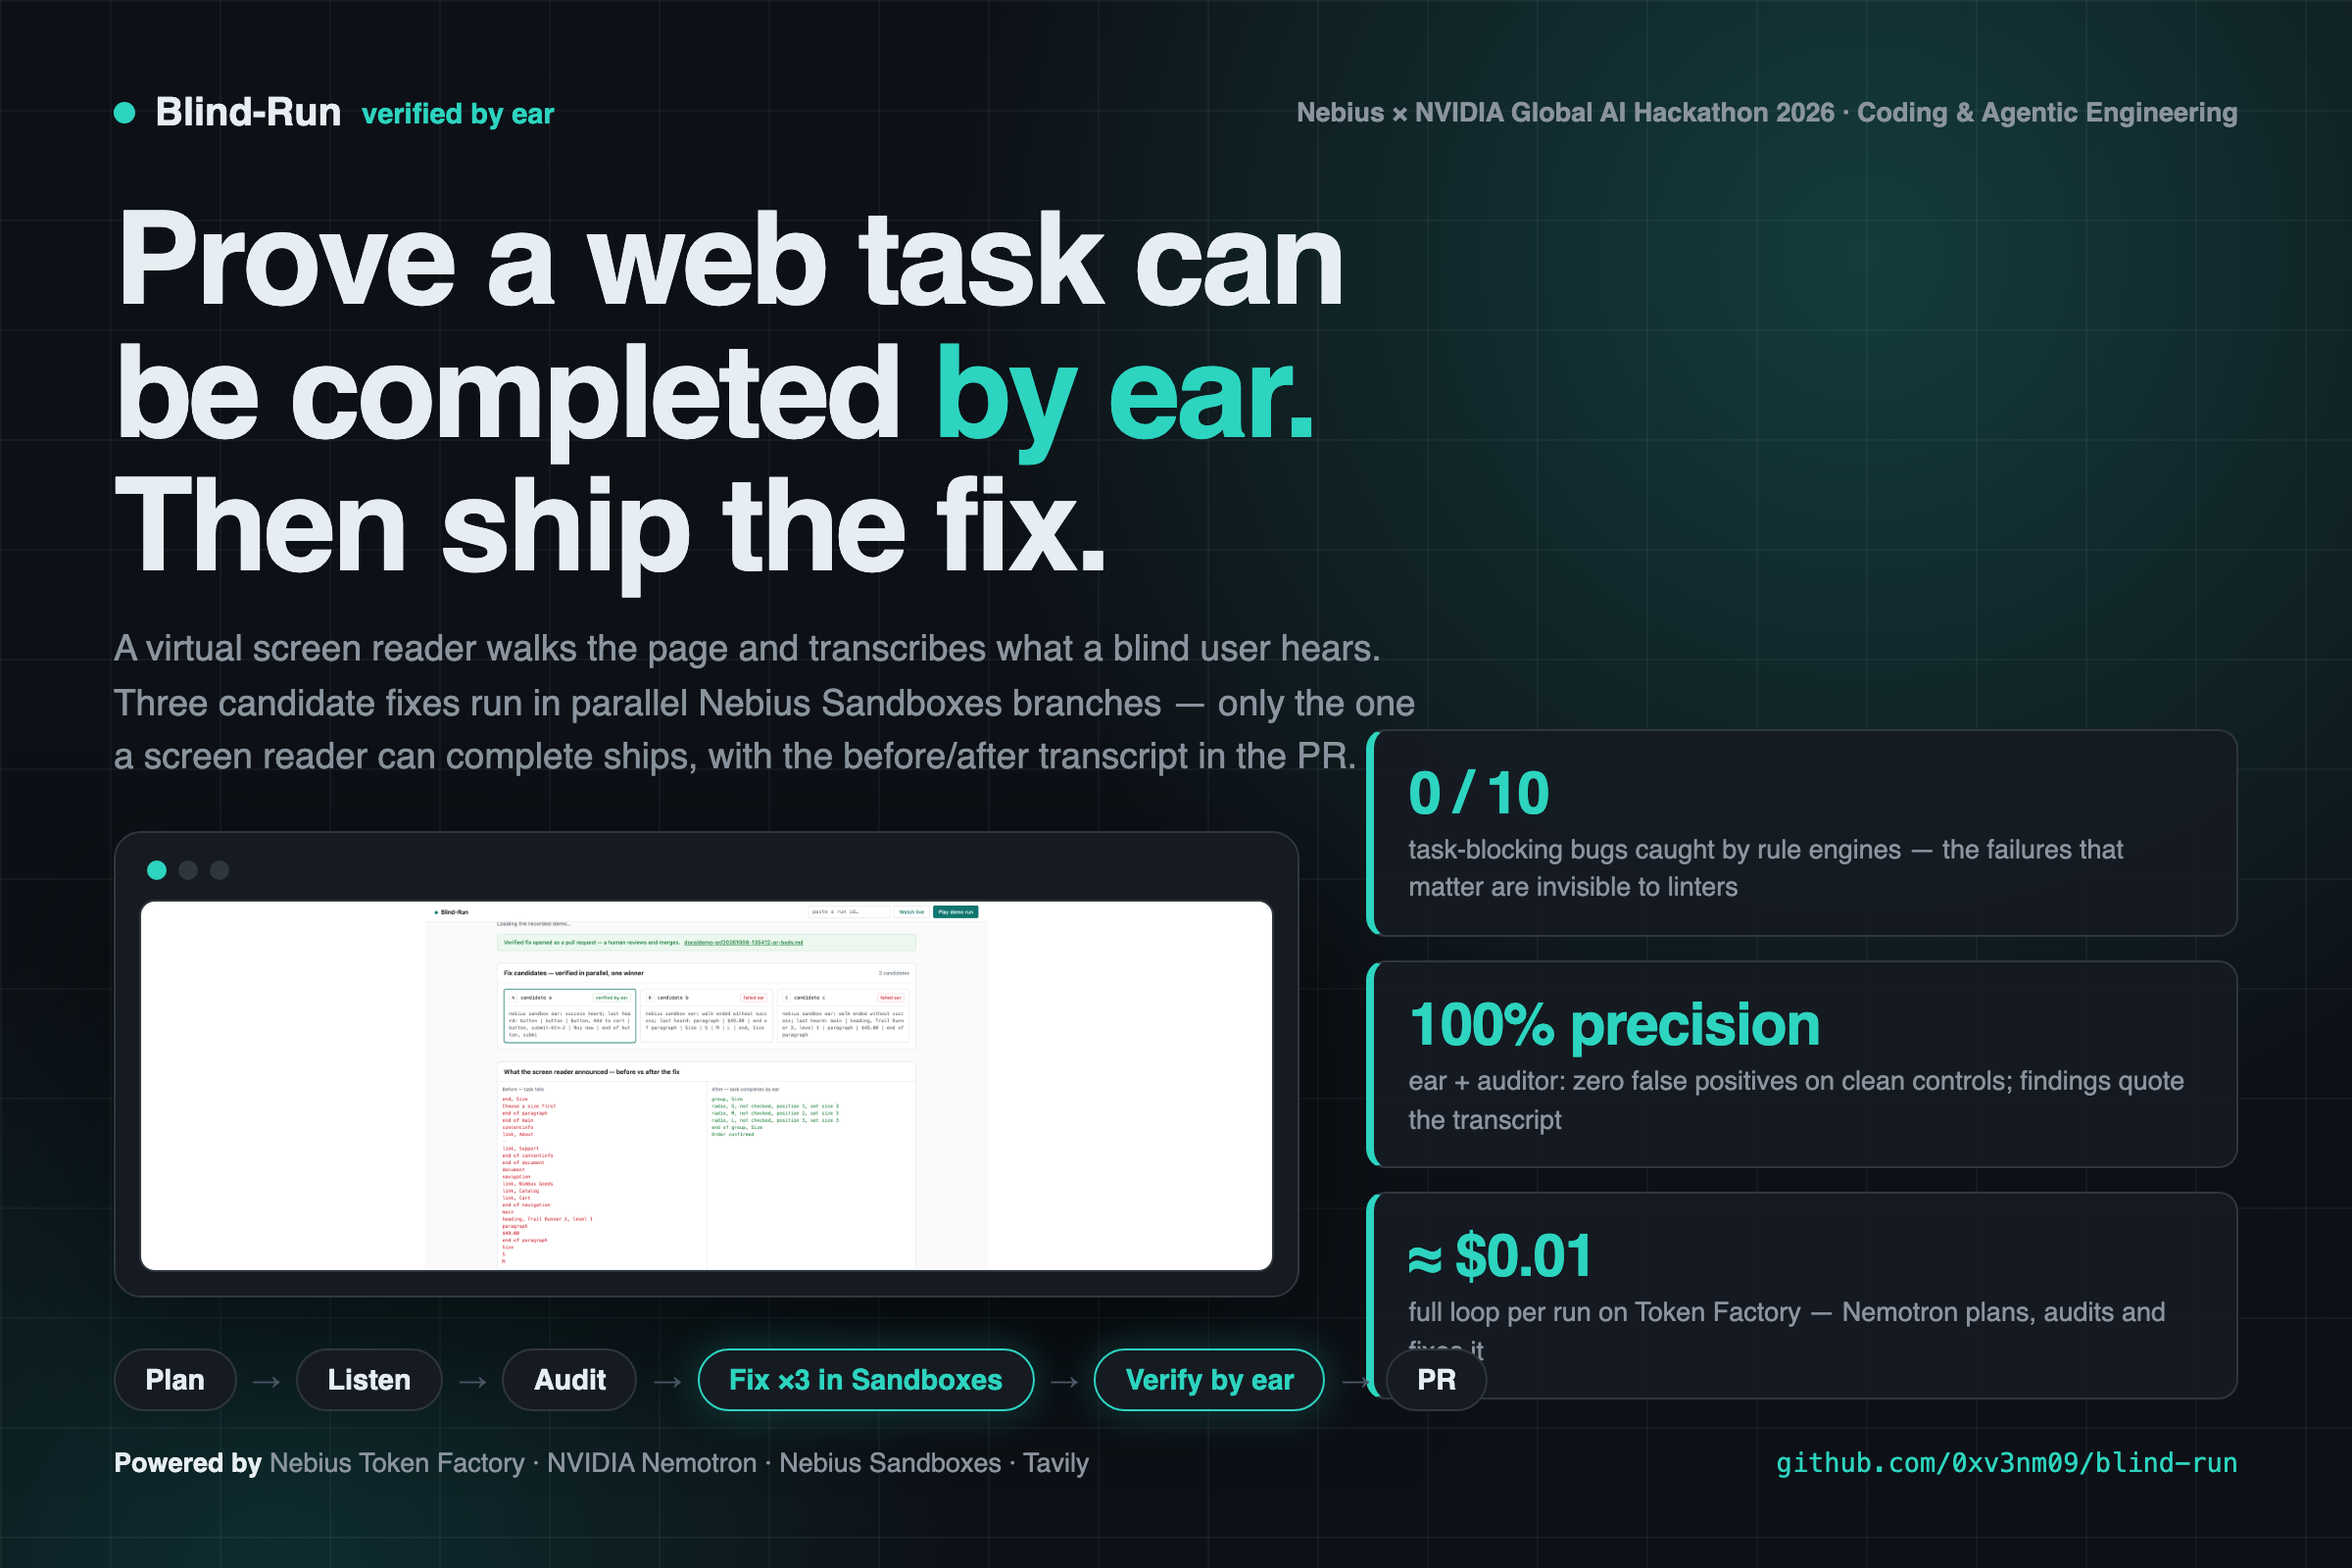
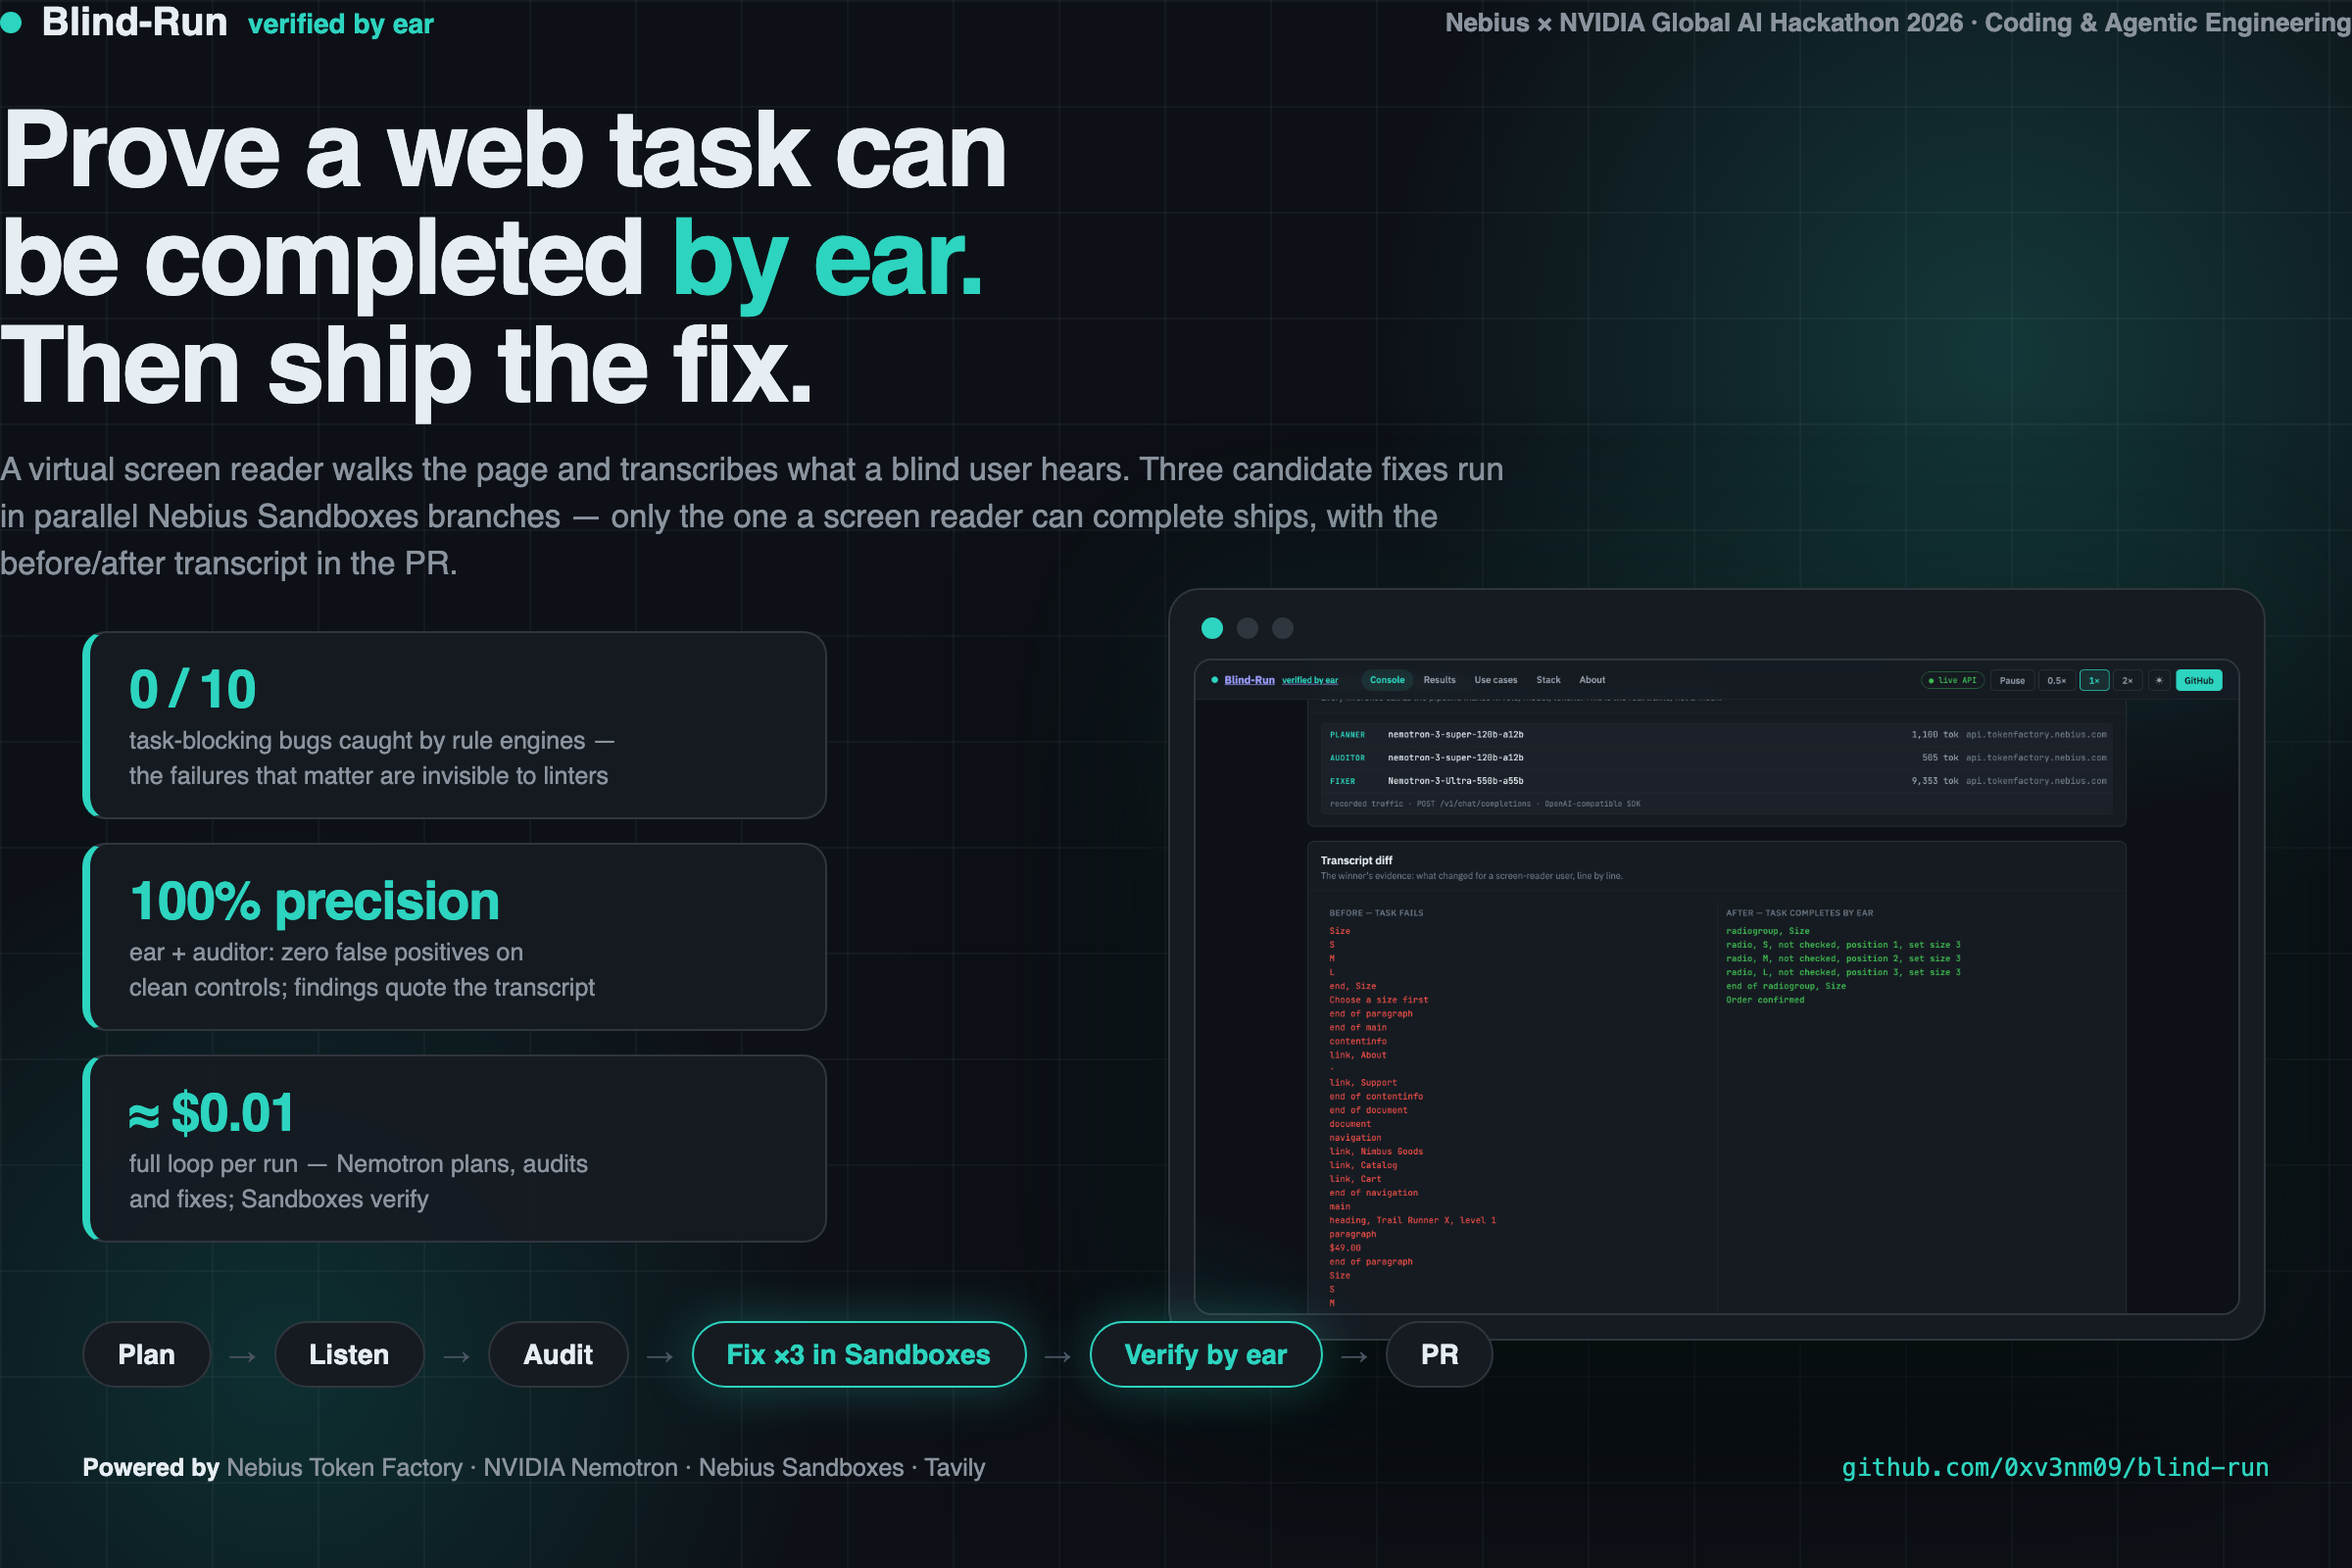
assets: v3 poster (3:2 + 16:9) and GIF on the new dark UI
Poster rebuilt to the composition rules (one focal point, oversized type,
hero mockup with depth, generous whitespace): dark keynote style matching
the approved video intro — brand row, 3-line headline with teal emphasis,
real console mockup (calls panel + diff) in a browser frame, measured stat
chips, glowing pipeline pills. 3:2 2400x1600 for the Devpost gallery +
16:9 1920x1080 README hero variant.
GIF: 5 hard-cut slides from the new dark console (walk, Token Factory
calls, parallel verdicts, use-case proof row, diff) — 1920x1200, 2.3MB.
Render bug fixed en route: single-letter template tokens corrupted the CSS
(Helvetica -> 800elvetica); px-suffixed longest-first substitution now.

diff --git a/web/src/app.css b/web/src/app.css
@@ -225,3 +225,5 @@ table.findings { width: 100%; border-collapse: collapse; font: 400 13px/19px var
 .call-foot { padding: 6px 12px; font: 400 10.5px/15px var(--mono); color: var(--text-3);
   border-top: 1px solid var(--line); }
 .findings tr.uc-detail:hover td { background: var(--surface-2); }
+.uc-proof .call-line { grid-template-columns: 64px 1fr 90px 150px; }
+.uc-proof .call-line .c-model { font-size: 10.5px; word-break: normal; }
